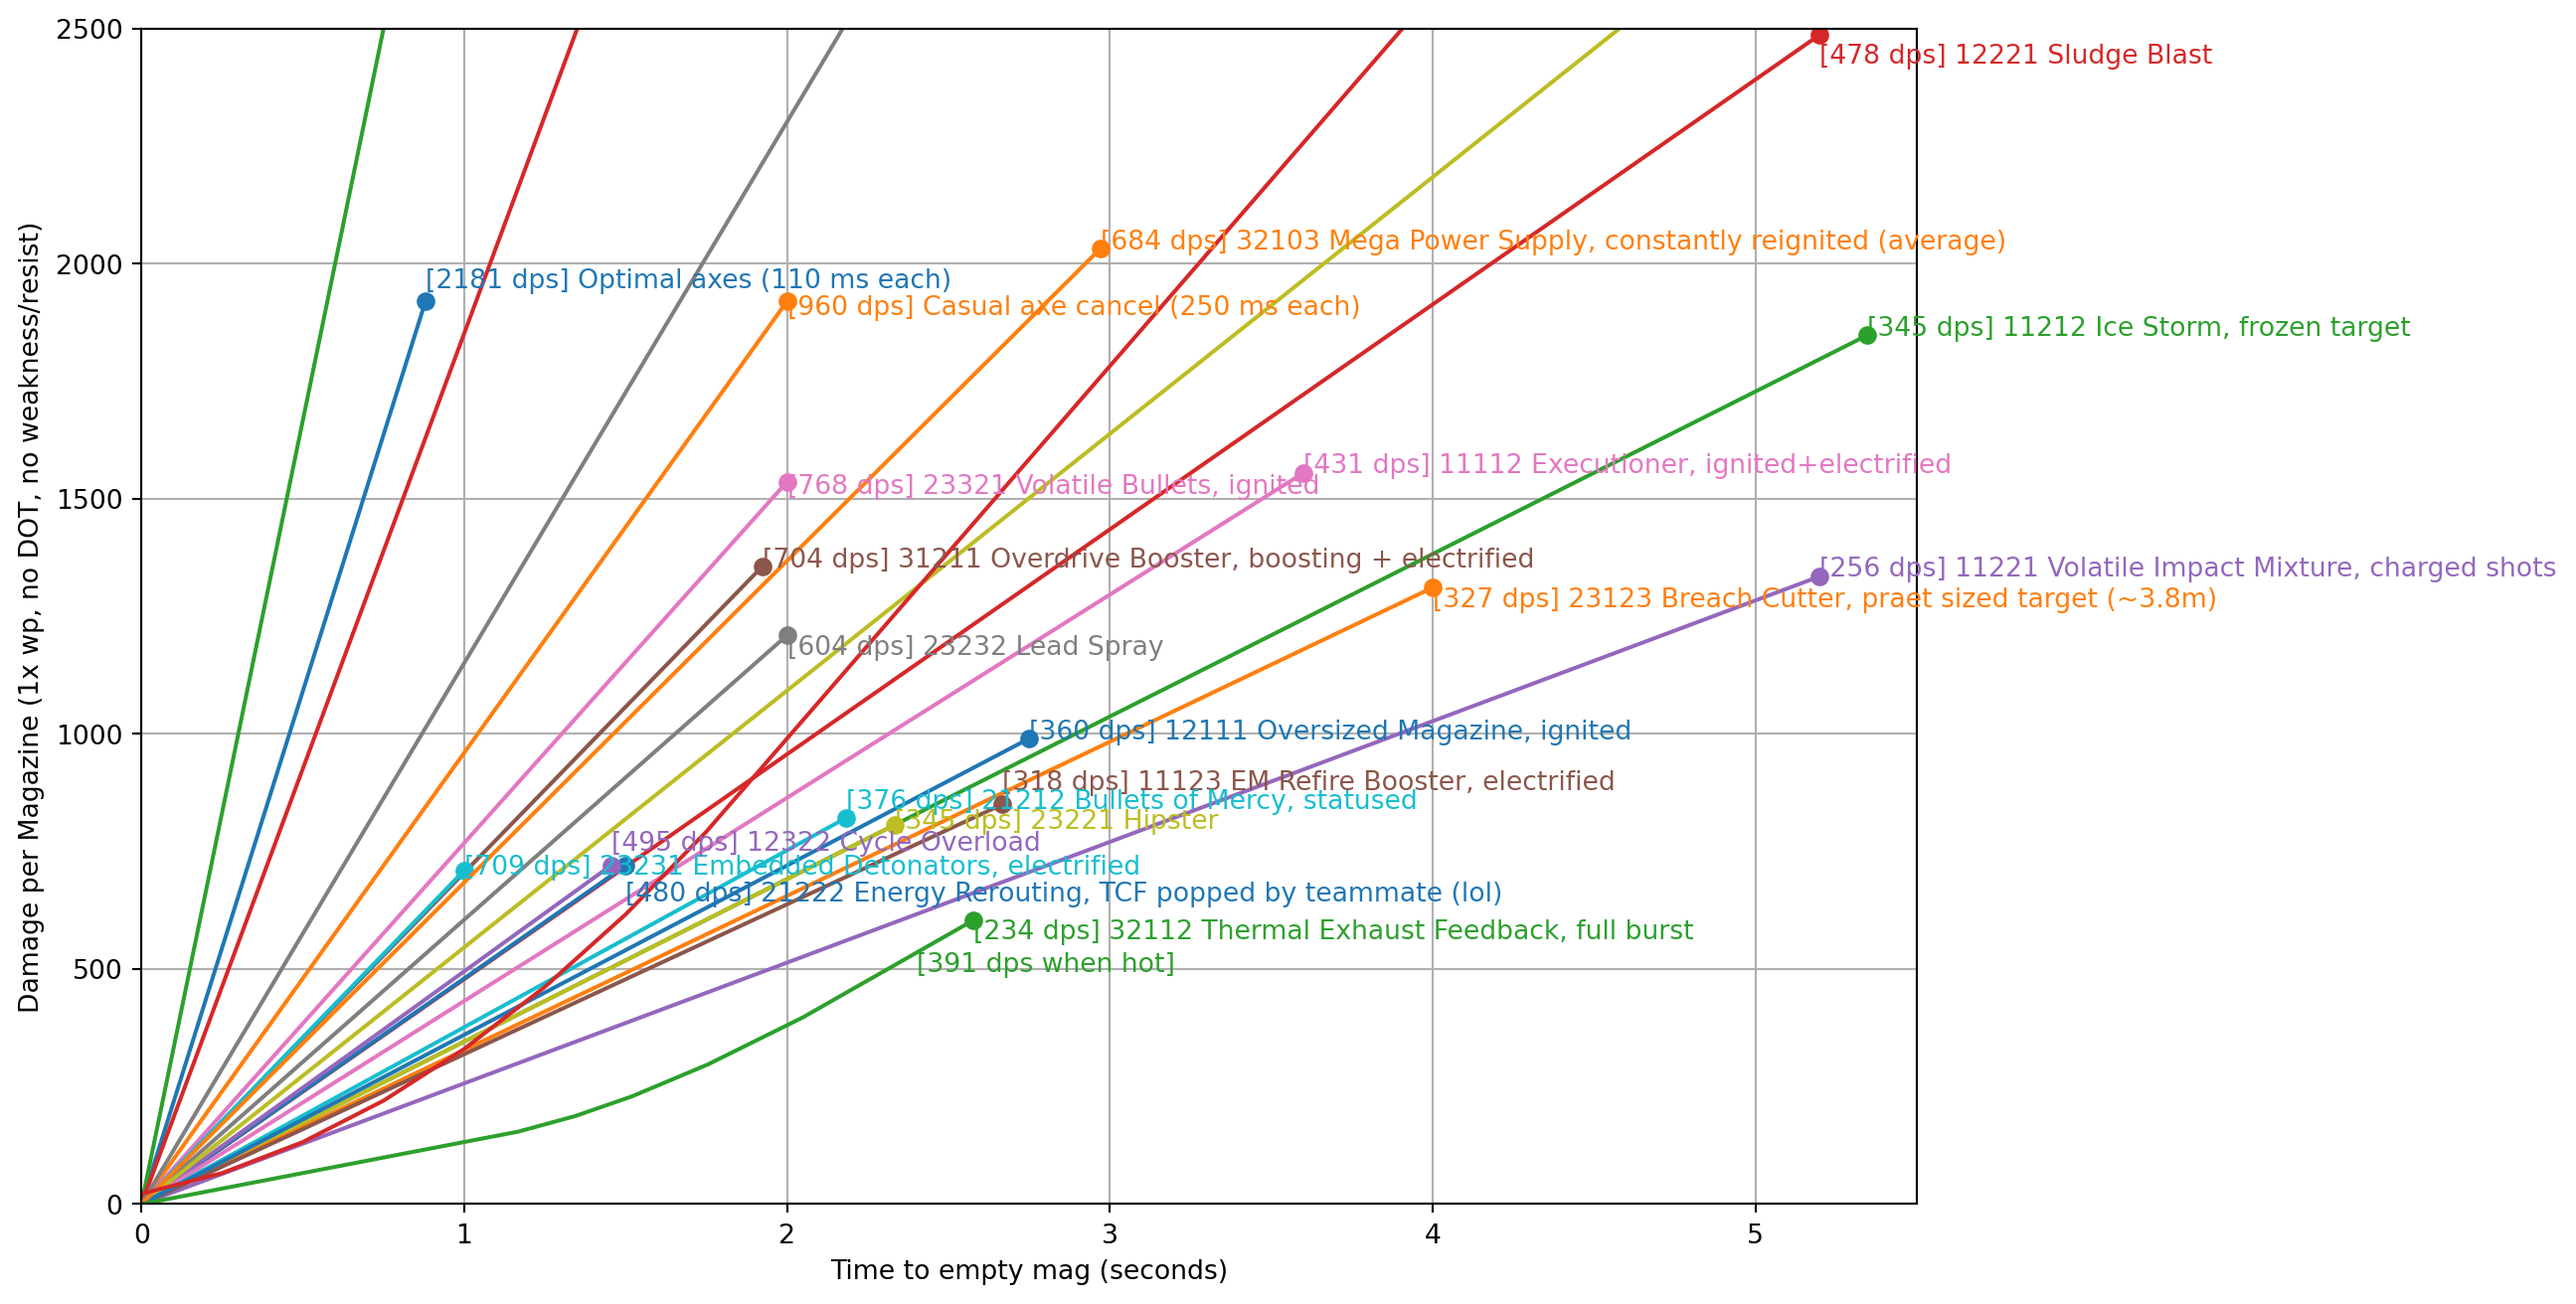
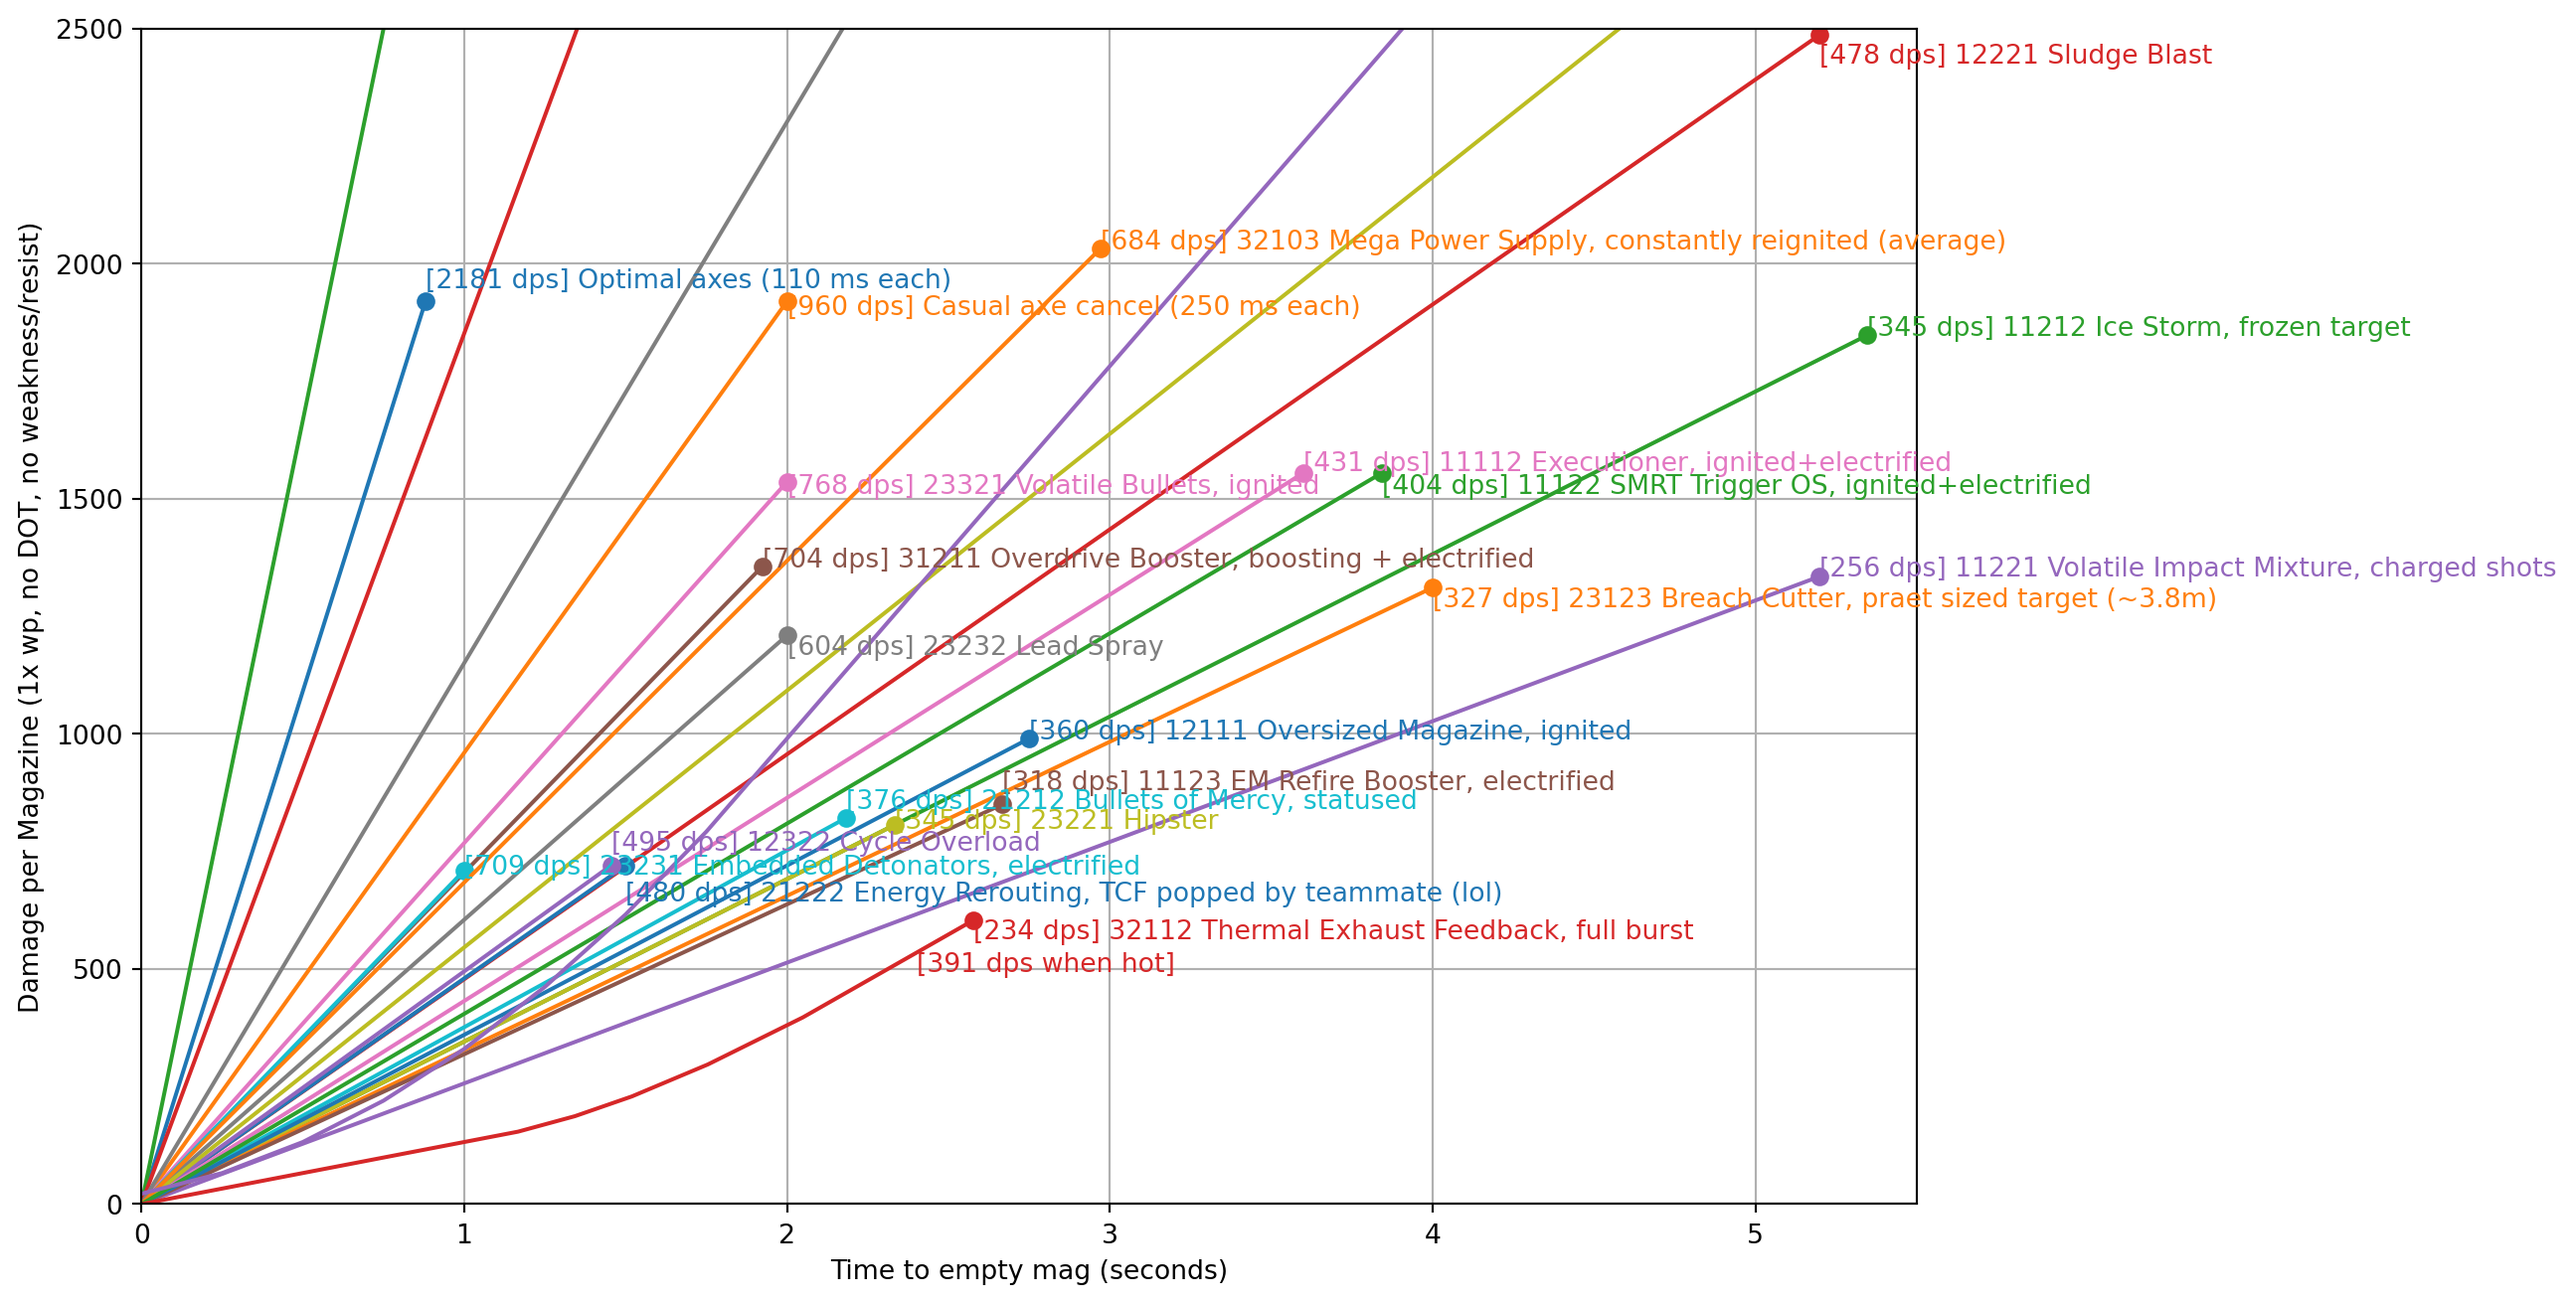
add lok1 analysis and added STOS to burst dps

diff --git a/lok1.md b/lok1.md
@@ -1,0 +1,72 @@
+[DRG Analysis](README.md) > **LOK-1 Smart Rifle**
+
+# LOK-1 Smart Rifle
+
+## About the gun
+
+The LOK-1 Smart Rifle is a powerful primary (if you take the right builds) that gives up the reactiveness of stubby in exchange for range, armor break, and higher potential DPS if you(r team can help) activate the powerful T3A upgrade. 
+
+SMRT Trigger OS is an overclock introduced in Season 5 that allows you to gain back most of that reactiveness, but in exchange you give up the opportunity to run Executioner whose massive weakpoint bonus helped make up for the weapon's tight base ammo pool. Still, a lot of the general public has been sleeping on SMRT Trigger OS. It kills single targets extremely quickly, at a rate competitive with or exceeding Executioner, which was the previous reigning champion among single-target LOK-1 builds.
+
+The upgrade tree of the weapon is in a rather sad state. Most tiers have preferred or strongly preferred options with a few specific edge cases.
+* In Tier 1: 
+  * Damage vs ammo, neither option leaves you with much total ammo so you might as well take damage and get better DPS. Ammo does give slightly more total damage but it's still not ideal. I suppose you can take it if you want. I will analyze the builds assuming you take damage, except for the standard ECR build which is not focused on single targets and takes ammo.
+* In Tier 2: 
+  * T2A (tight lock-on field, long range) is generally considered the best in that tier as it allows you to precisely specify which target you want to place locks on - obviously a useful capability for a single-target weapon. It also gives you a huge range. It is even useful for ECR to concentrate three locks onto a single target in order to activate the overclock's signature explosion - with a wider lock-on field, the locks tend to get scattered over multiple targets which can waste both time and ammo.
+* In Tier 3:
+  * T3A (electric/fire synergy) is up to a 40% damage upgrade if you can apply statuses (and is additive with T5B for up to 60% extra damage). The extra damage is dealt as Electric or Fire, which means it is even more effective against many enemies such as Mactera. 
+  * T3B (SMRT targeting) is sadly a throw pick for single target applications, making it impossible to get T5B (damage bonus at full lock) and also not accounting for a million factors such as armor which may mean it actively *prevents you from killing enemies*. It also makes it impossible to activate ECR on swarmers if you're going for AOE. 
+  * T3C (blowthrough) is not a great pick for single target applications because blowthrough doesn't work until after the bullet hits your locked target, and it's not a great pick for AOE because it's glitchy and causes ECR to straight up fail to activate.
+* In Tier 4:
+  * T4A (faster locks) is very good, increasing your effective rate of fire. 
+  * T4B (more locks) is only marginally useful while making it harder to activate T5B (damage bonus at full lock). Exception for SMRT Trigger OS since it makes your lock-ons instant anyway, therefore just being a rough x2 rate of fire multiplier.
+* In Tier 5:
+  * T5A (electric DOT) is very good and can activate T3A (electric/fire synergy) on subsequent shots.
+  * T5B (damage bonus at full lock) is also very good, and the choice between it and T5A mostly comes down to whether you expect to have a plentiful other source of electricity.
+  * T5C (fear) barely applies enough fear to do anything and is competing with significant damage/utility upgrades. Oof
+
+## My complaints
+
+There are quite a lot of fiddly details that become annoying when trying to calculate the DPS of this gun.
+* There is a complicated sequence of events that happens each time you fire a burst:
+  * A 0.25s delay before locks begin to be acquired
+  * Locks are gradually placed on the target
+  * The gun waits for you to manually let go of the trigger, which you are almost certain to do a bit late (thus losing DPS) or a bit early (thus getting less than full locks and losing T5B)
+  * The gun fires the locked shots in a burst
+  * There is a 0.2s delay before the start of the next cycle (or the start of the reload) due to the gun's actual rate of fire of 5 (which is the rof at which you can tapfire)
+  * Finally, SMRT Trigger throws most of this out the window, letting you hold down the button and locking on much faster and ditching the 0.2s rate of fire delay and having an extremely high burst rate of fire. There are additional anomalies with it that cause it to just not match any kind of calculation I could put together. Therefore, SMRT Trigger is best analyzed by just recording the game and timing the recordings. Which leads us to the next issue.
+* The following things do not change simultaneously and tend to be offset by a few frames from each other. The best approach is to pick one of these and use that one only:
+  * The lock icon on the target
+  * The lock bar on the left of the crosshair
+  * The magazine counter on the weapon model
+  * The magazine counter on the HUD
+  * The health bar of the target
+  * The visual firing animation of the weapon (which we could further dissect into multiple components but I'll spare you the details)
+* T3A can get bonuses or not depending on what status effects the target has.
+* T5A electric upgrade adds an additional electric DOT which can affect T3A.
+* Normal fiddly DRG details like punching through armor and hitting weakpoints and blowthrough weirdness and reload cancelling and etc etc etc.
+
+## General build comparison
+
+OK so how to analyze this weapon? For the graph below, I'll make some simplifying assumptions:
+* You play perfectly and let go of the trigger immediately when the gun reaches max locks (except SMRT Trigger OS where you just keep holding the trigger and perfect play is actually humanly possible)
+* T3A and T5B are always active to their full extent (though the fire/electric DOT that activate them won't be counted into the damage, only the T3A bonus)
+* Reasonable reload cancels are performed according to [LazyMaybe's timings](https://www.youtube.com/watch?v=TQ0-ysX-ZX4).
+
+![](img/lok1.png)
+
+This graph assumes you start holding the trigger at time 0. The last horizontal segment in each curve is a reload (with reload cancel). For slow-locking builds, the reload takes about as long as filling up the lock bar. 
+
+SMRT Trigger and Executioner are clearly the most reactive and have the highest DPS. It is pretty clear why the two of them are considered so much stronger than the base weapon. ECR is also considered strong, but obviously not as a single-target weapon, being more useful for its explosion which inflicts some AOE and fear. (Ideally you want to use bursts of 3 locks to spam explosions rather than full lock, but the 3-lock version of the graph went way off the right edge so I decided to just not show it. You can still full lock if you want to deal with a single target.) Seeker has the next lowest DPS, with less than half the burst of Executioner (though slightly more than half if you include the reload time.) 
+
+## Exec cases and SMRT Trigger OS
+
+Since SMRT and Exec are our top contenders, let's look at them in a little more detail. This time, I have specifically noted which bonuses apply. T5A electric dot is included. I have also added a 0.2s delay during each Exec firing cycle to account for imperfect play. 
+
+Under these assumptions, SMRT now consistently kills faster than Exec even when Exec is hitting weakpoints. (The exception is when 11112 Exec gets T3A and SMRT doesn't, which isn't a fair comparison. I added that Exec case more as a comparison against the other Exec cases.) When Exec isn't hitting weakpoints, it falls way behind and there are a few quite notable enemies where that can be the case, especially shellbacks. You can't one-mag a rolling shellback with Exec unless you take 11112 and the shellback is on fire (rolling shellbacks are completely immune to electricity, and you aren't likely to hit a weakpoint). 
+
+Enemies with breakable heavy armor (Brundles, Stingtails) tend not to punch through until the second hit, so I have added one bullet's worth to their effective health.
+
+![](img/lok1_exec.png)
+
+[Back to DRG Analysis](README.md)

diff --git a/README.md b/README.md
@@ -12,6 +12,7 @@ A collection of various analyses for the game Deep Rock Galactic.
 - [Cryo Cannon](cryo_cannon.md)
 - [Power Attack](power_attack.md)
 - [Zipline Analysis](zipline.md)
+- [LOK-1 Smart Rifle](lok1.md)
 
 Bonus content that features less technical analysis: 
 
